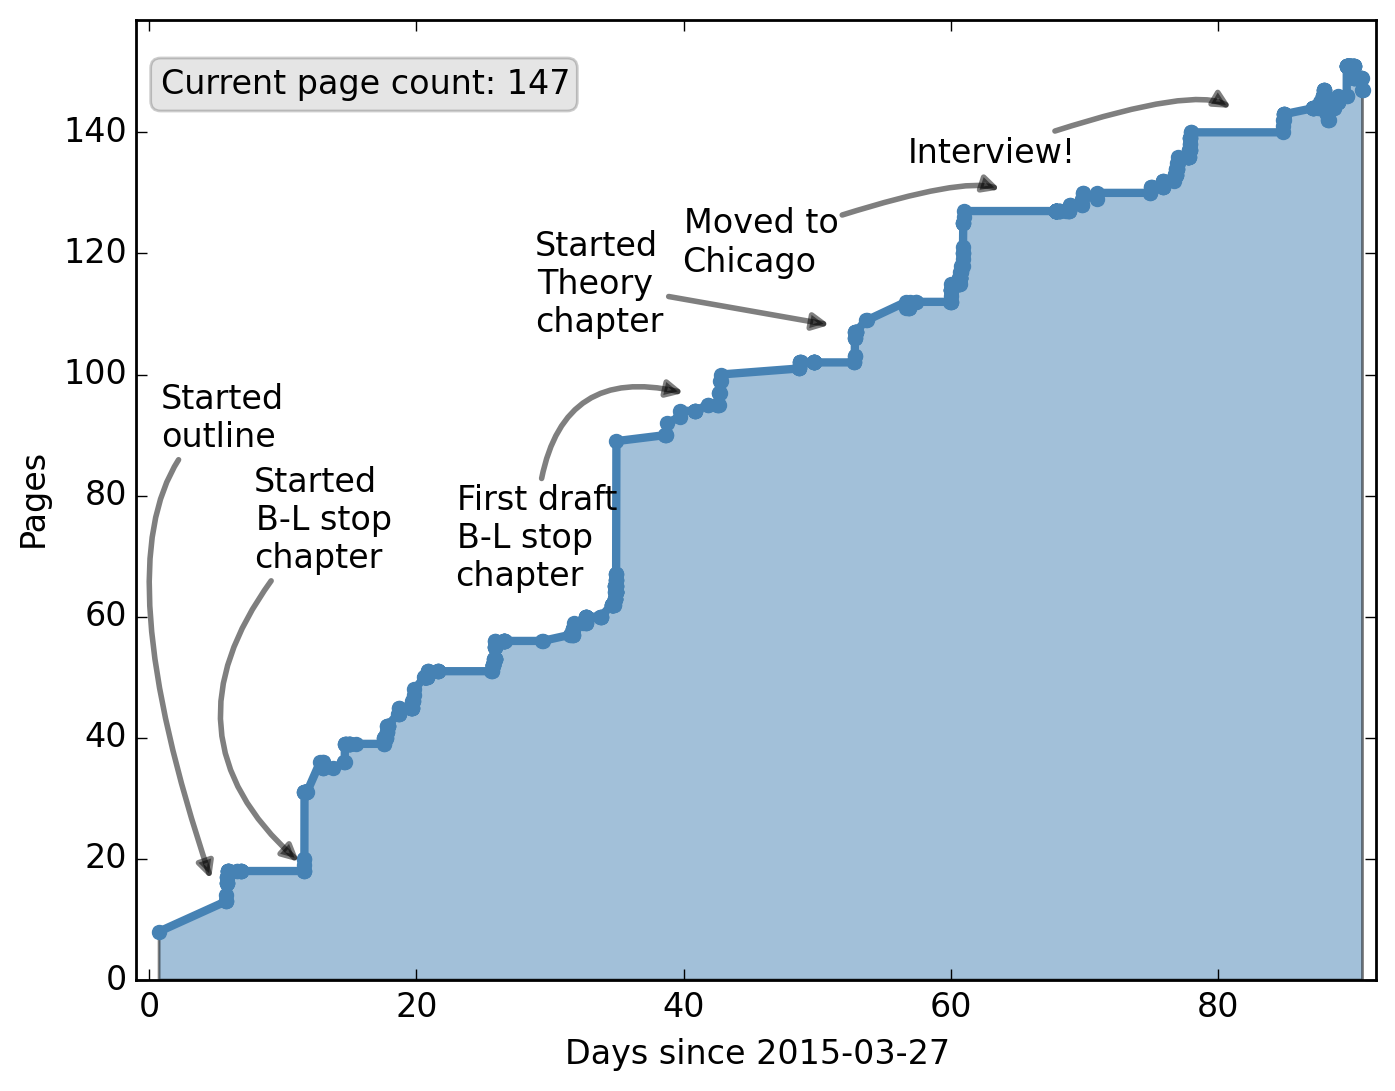
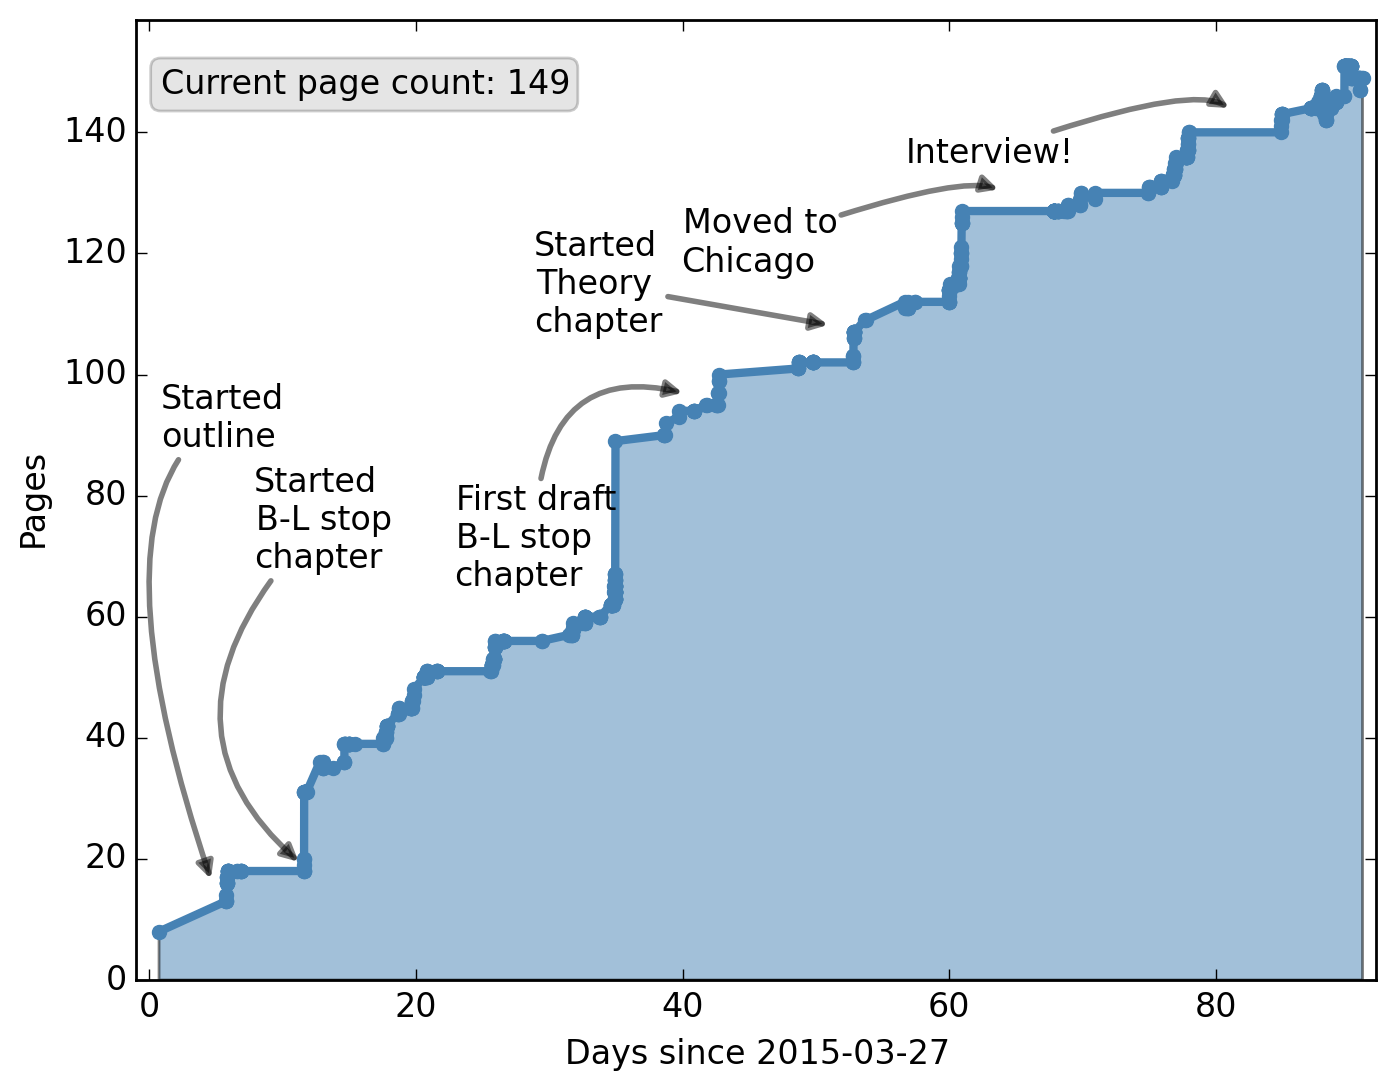
starting MC chapter

diff --git a/tex/mc.tex b/tex/mc.tex
@@ -3,49 +3,92 @@
 \chapter[Monte Carlo simulation][Monte Carlo simulation]{Monte Carlo simulation}
 \label{ch:mc}
 
-{\color{red}
-  I learned a lot about these generators (at least MadGraph+pythia),
-  so I thought it would be fun to write a bit about them here.
-  This chapter may get dropped if I run out of time.
-}
+Monte Carlo (MC) simulations are an important tool for particle physics
+experiments.
+MC techniques are used to simulate physics processes that occur during
+particle collisions.
+These simulated events also include the interactions of the decay products
+in the detector, and can be used to tune the selection of an analysis,
+estimate the expected event yields and kinematic shapes, and ultimately,
+evaluate the expected sensitivity of a particular search.
+MC simulation of background and signal processes are used on ATLAS.
+This chapter introduces some of the basic concepts of event generation, but
+focuses on the generation of the $B-L$ stop pairs from the model described in
+Section~\ref{sec:theory_bl_extension}.
+
+MC simulation of particle physics events can be broken into two major parts.
+The first step is the event generation, described in
+Section~\ref{sec:event_gen}.
+In the event generation stage, the actual Physics processes that occur as a
+result of the collision are simulated.
+This includes the hard interaction as well as the resulting decay of any
+unstable particles.
+As in the real detector, once the proton collisions are simulated, the decay
+products travel through the detector, and may leave a measurable signature
+which can be measured.
+This involved material interactions with the detector, and is discussed in
+Section~\ref{sec:det_sim}.
 
 %% -----------------------------------------------------------------------------
+\FloatBarrier
 \section{Event Generation}
+\label{sec:event_gen}
 
-{\color{red} What is an event. Brief overview of the different pieces that need
-  to be calculated before going into detail}
+Before discussing the details of event generation, it is useful to first
+introduce the concept of an ``event.''
+At the LHC, beams of protons are accelerated in opposite directions, and
+allowed to cross at specific locations as described in Section~\ref{sec:lhc}.
+At each of these crossings, protons from the two beams collide with one
+another, resulting in a spray of particles in the detector.
+Each of these crossings represents a single event.
+Figure~\ref{fig:mc_event} shows a pictorial representation of a simulated
+$t\bar{t}H$ event.
 
-  \begin{figure}[p]
-    \centering
-    \includegraphics[width=\textwidth, clip=true, trim=0 0 0 0]
-    {figs/mc_gen/full_mc_event.png}
-    \caption[
-      Pictorial representation of a $t\bar{t}H$ event as produced by an event
-      generator~\cite{Gleisberg:2008ta}.
-    ]{
-      Pictorial representation of a $t\bar{t}H$ event as produced by an event
-      generator.
-      The hard interaction (big red blob) is followed by the decay of both top
-      quarks and the Higgs boson (small red blobs).
-      Additional hard QCD radiation is produced (red) and a secondary
-      interaction takes place (purple blob) before the final-state partons
-      hadronize (light green blobs) and hadrons decay (dark green blobs).
-      Photon radiation occurs at any stage (yellow)~\cite{Gleisberg:2008ta}.
-    }
-    \label{fig:mc_event}
+\begin{figure}[p]
+  \centering
+  \includegraphics[width=\textwidth, clip=true, trim=0 0 0 0]
+  {figs/mc_gen/full_mc_event.png}
+  \caption[
+    Pictorial representation of a $t\bar{t}H$ event as produced by an event
+    generator~\cite{Gleisberg:2008ta}.
+  ]{
+    Pictorial representation of a $t\bar{t}H$ event as produced by an event
+    generator.
+    The hard interaction (big red blob) is followed by the decay of both top
+    quarks and the Higgs boson (small red blobs).
+    Additional hard QCD radiation is produced (red) and a secondary
+    interaction takes place (purple blob) before the final-state partons
+    hadronize (light green blobs) and hadrons decay (dark green blobs).
+    Photon radiation occurs at any stage (yellow)~\cite{Gleisberg:2008ta}.
+  }
+  \label{fig:mc_event}
 \end{figure}
 
+Looking more closely at the interactions taking place, one notices that,
+rather than the full protons interacting with each other, the interactions
+take place between the constituent quarks and gluons within the two protons.
+In some cases, there is a ``hard interaction,'' or an inelastic scattering
+where additional particles are created.
+This is mathematically represented by the ``matrix element'' calculation.
+As the protons pass through each other, there are also soft interactions
+between the constituent partons in a process called the ``underlying event.''
+The underlying event produces charged particles and jets in the detector, in
+addition to those coming from the hard interaction.
 
 %% - - - - - - - - - - - - - - - - - - - - - - - - - - - - - - - - - - - - - - -
+\FloatBarrier
 \subsection{Underlying event}
 
 %% - - - - - - - - - - - - - - - - - - - - - - - - - - - - - - - - - - - - - - -
+\FloatBarrier
 \subsection{Matrix element}
 
 %% - - - - - - - - - - - - - - - - - - - - - - - - - - - - - - - - - - - - - - -
+\FloatBarrier
 \subsection{Parton shower}
 
 %% - - - - - - - - - - - - - - - - - - - - - - - - - - - - - - - - - - - - - - -
+\FloatBarrier
 \subsection{Jet matching}
 \label{sec:jet_matching}
 
@@ -56,7 +99,9 @@
 {\color{red} Add info about HFOR here}
 
 %% -----------------------------------------------------------------------------
+\FloatBarrier
 \section{Detector simulation}
+\label{sec:det_sim}
 
 {\color{red} Probably something brief about how detector simulation is done, and
   the difference between full/fast sim}

diff --git a/tex/lhc.tex b/tex/lhc.tex
@@ -7,6 +7,7 @@
 %% ------------------------------------------------------------------------------
 \FloatBarrier
 \section{The LHC}
+\label{sec:lhc}
 
 {\color{red}Standard stuff about the LHC accelerator complex, and there
   are four major experiments. This shouldn't be too long}

diff --git a/PageNumbers.md b/PageNumbers.md
@@ -635,3 +635,5 @@ Thu Jun 25 12:25:38 CDT 2015 , 149
 Thu Jun 25 13:40:40 CDT 2015 , 149
 Thu Jun 25 14:14:53 CDT 2015 , 147
 Thu Jun 25 14:29:27 CDT 2015 , 147
+Thu Jun 25 17:14:52 CDT 2015 , 149
+Thu Jun 25 18:44:33 CDT 2015 , 149
